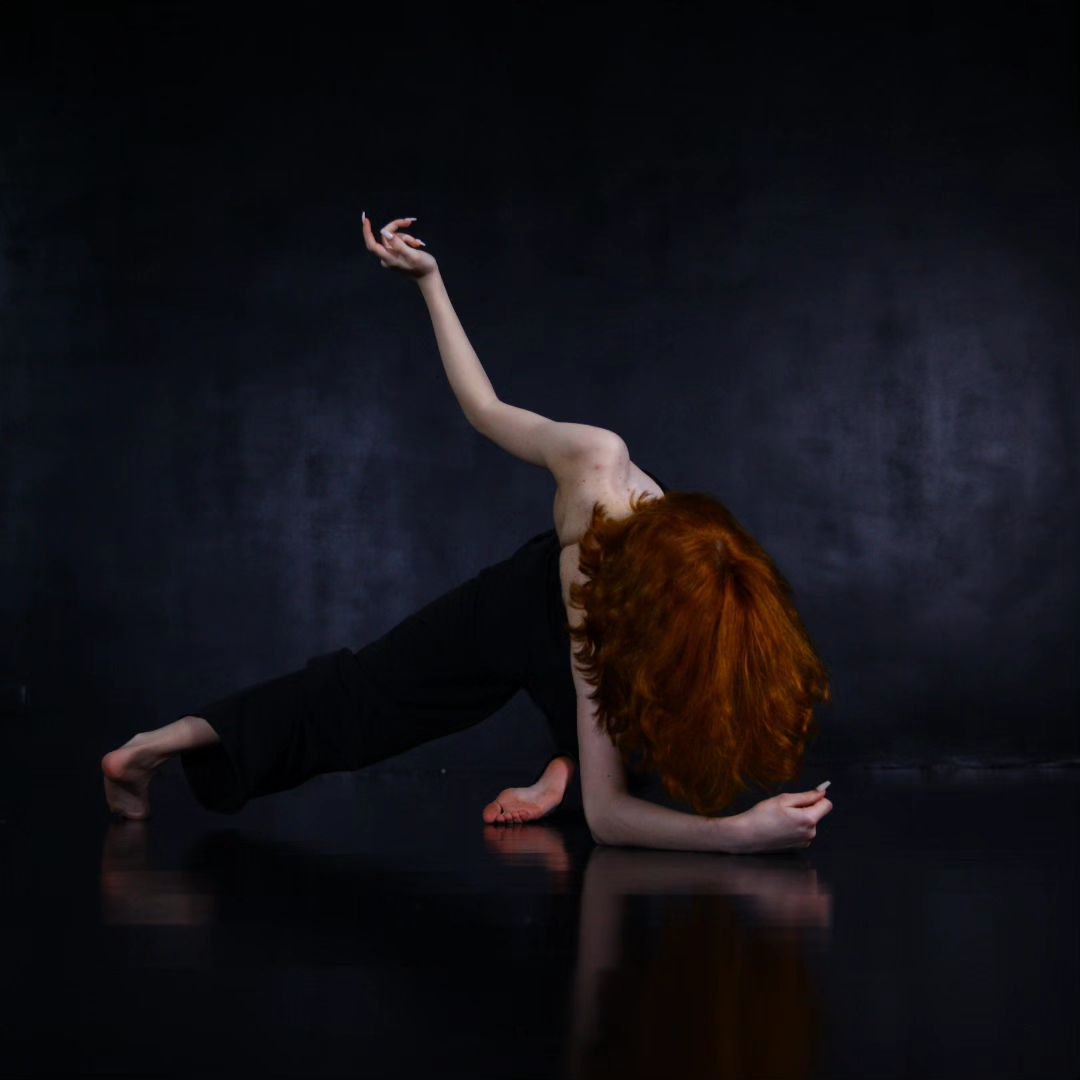
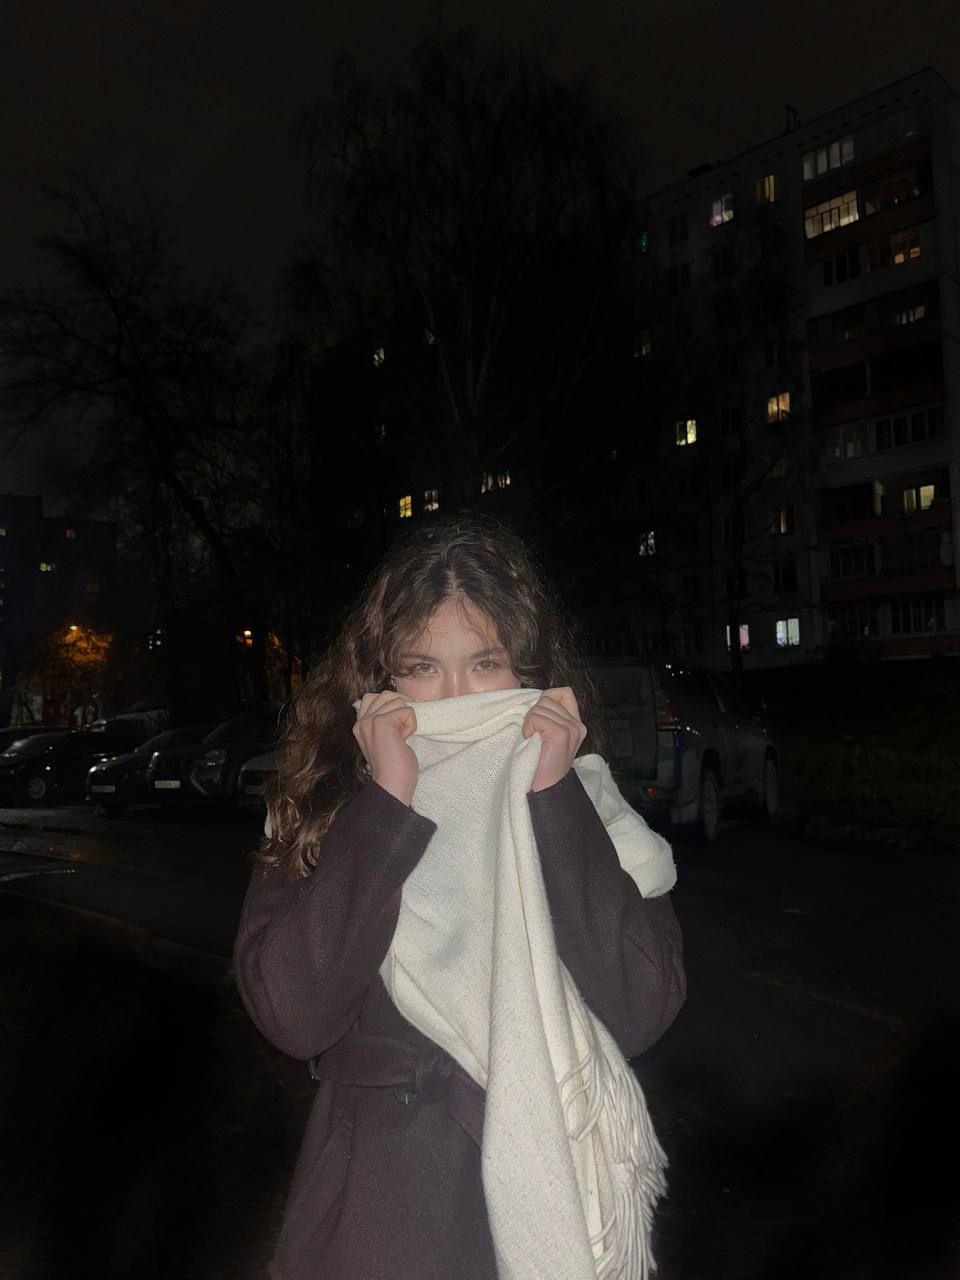
about us page

diff --git a/index.html b/index.html
@@ -19,6 +19,7 @@
       <div class="aboutUs">
         <button class="aboutUsBtn">About Us &#9662;</button>
         <div class="aboutUs-content">
+          <a href="html/about_us.html">About Us</a>
           <a href="our_works.html">Our Works</a>
           <a href="#https://www.photo-pick.com/online/H8vS5PyL.link"
             >Photobook</a
@@ -54,13 +55,13 @@
 
       <div class="offer-card">
         <img
-          src="img/photo_2025-12-17_16-14-50.jpg"
+          src="img/photo_2025-12-18_15-46-21.jpg"
           alt="Promotion"
           class="imagesFirst"
         />
         <h3>Promotion</h3>
         <p>Strategic marketing to expand audience and visibility.</p>
-        <a href="our_works.html" class="joinUsButton">See How</a>
+        <a href="html/about_us.html" class="joinUsButton">Learn More</a>
       </div>
 
       <div class="offer-card">
@@ -71,7 +72,7 @@
         />
         <h3>Skill Development</h3>
         <p>Improve vocals, dance, and stage presence professionally.</p>
-        <a href="audition.html" class="joinUsButton">Develop Skills</a>
+        <a href="audition.html" class="joinUsButton">Learn More</a>
       </div>
 
       <div class="offer-card">
@@ -80,9 +81,9 @@
           alt="International Opportunities"
           class="imagesFirst"
         />
-        <h3>International Opportunities</h3>
-        <p>Global projects and exposure for artists beyond borders.</p>
-        <a href="contacts.html" class="joinUsButton">Go International</a>
+        <h3>Worldwide artists</h3>
+        <p>We welcome talented artists from all around the world.</p>
+        <a href="contacts.html" class="joinUsButton">Learn More</a>
       </div>
     </section>
 
@@ -90,7 +91,7 @@
       <h3>About our Directors</h3>
 
       <div class="profile">
-        <b>Sofia – CEO (PR Manager, SMM Specialist)</b>
+        <b>Sofia Golban – CEO (PR Manager, SMM Specialist)</b>
         <p>
           Promotion of the company and its artists, content management, and PR
           strategies: 2 years in SMM and 4 years in PR, development of marketing
@@ -99,7 +100,7 @@
       </div>
 
       <div class="profile">
-        <b>Sofia – Deputy Director (Casting Manager, Media Buyer)</b>
+        <b>Sofya Nikolaevna – Deputy Director (Casting Manager)</b>
         <p>
           Advertising purchases on various platforms, recruiting talented
           artists, conducting castings, and selecting participants: music school
@@ -110,14 +111,25 @@
     </div>
 
     <footer class="footer">
-      <span
-        >Telegram channel:
-        <a href="https://t.me/gbentertainmentso">@gbentertainmentso</a> | Email:
-        <a href="mailto:gbentertainmentso@gmail.com"
-          >gbentertainmentso@gmail.com</a
-        ></span
-      >
-      <span>Copyright © 2026 GB ENTERTAINMENT</span>
+      <div class="footer-content">
+        <img
+          src="img/fotor-20240206184618.png"
+          class="logo"
+          alt="GB ENTERTAINMENT logo"
+        />
+
+        <div class="footer-text">
+          <span>
+            Telegram channel:
+            <a href="https://t.me/gbentertainmentso">@gbentertainmentso</a> |
+            Email:
+            <a href="mailto:gbentertainmentso@gmail.com">
+              gbentertainmentso@gmail.com
+            </a>
+          </span>
+          <span>Copyright © 2026 GB ENTERTAINMENT</span>
+        </div>
+      </div>
     </footer>
   </body>
 </html>

diff --git a/html/about_us.html b/html/about_us.html
@@ -1,0 +1,83 @@
+<!DOCTYPE html>
+<html lang="en">
+  <head>
+    <meta charset="UTF-8" />
+    <meta name="viewport" content="width=device-width, initial-scale=1.0" />
+    <link rel="stylesheet" href="../css/navbar.css" />
+    <link rel="stylesheet" href="../css/style.css" />
+    <link rel="stylesheet" href="../css/footer.css" />
+    <link
+      href="https://fonts.googleapis.com/css2?family=Playfair+Display:wght@500;700&family=Inter:wght@300;400;500&display=swap"
+      rel="stylesheet"
+    />
+    <title>About us</title>
+  </head>
+  <body>
+    <nav class="navbar">
+      <a href="../index.html">Home Page</a>
+      <a href="our_artists.html">Our Artists</a>
+      <div class="aboutUs">
+        <button class="aboutUsBtn">About Us &#9662;</button>
+        <div class="aboutUs-content">
+          <a href="html/about_us.html">About Us</a>
+          <a href="our_works.html">Our Works</a>
+          <a href="#https://www.photo-pick.com/online/H8vS5PyL.link"
+            >Photobook</a
+          >
+        </div>
+      </div>
+      <a href="audition.html">Audition Page</a>
+      <a href="contacts.html">Contacts</a>
+    </nav>
+    <section class="about">
+      <div class="directors">
+        <h3>About GB ENTERTAINMENT</h3>
+
+        <p class="profile">
+          GB ENTERTAINMENT is an international online entertainment company and
+          talent agency, creating and developing artists across multiple
+          creative fields.
+        </p>
+
+        <p class="profile">
+          Founded in October 2022 by Golban Sofia, the company started as a
+          small creative project and evolved into a multi-format platform
+          supporting vocalists, dancers, models, and digital creators worldwide.
+        </p>
+
+        <p class="profile">
+          We produce original music, covers, dance performances, and
+          entertainment content, while helping artists grow, gain exposure, and
+          build long-term careers in the industry.
+        </p>
+
+        <p class="profile">
+          GB ENTERTAINMENT is more than a label — it is a launchpad for talent,
+          combining creative development with global online promotion.
+        </p>
+        <p class="about-tagline">Talent has no borders.</p>
+      </div>
+    </section>
+    <footer class="footer">
+      <div class="footer-content">
+        <img
+          src="../img/fotor-20240206184618.png"
+          class="logo"
+          alt="GB ENTERTAINMENT logo"
+        />
+
+        <div class="footer-text">
+          <span>
+            Telegram channel:
+            <a href="https://t.me/gbentertainmentso">@gbentertainmentso</a> |
+            Email:
+            <a href="mailto:gbentertainmentso@gmail.com">
+              gbentertainmentso@gmail.com
+            </a>
+          </span>
+          <span>Copyright © 2026 GB ENTERTAINMENT</span>
+        </div>
+      </div>
+    </footer>
+  </body>
+</html>

diff --git a/css/footer.css b/css/footer.css
@@ -1,26 +1,65 @@
-.footer{
-    background-color: #000;
-    color: var(--gray);
-    text-align: center;
-    padding: 25px 10px;
-    font-family: 'Poppins', sans-serif;
-    font-size: 14px;
-    margin-top: 60px;
+.footer {
+  background-color: #000;
+  color: var(--gray);
+  padding: 25px 10px;
+  font-family: 'Poppins', sans-serif;
+  font-size: 14px;
+  margin-top: 60px;
 }
 
-.footer span {
-    display: block;
-    margin: 5px 0;
+.footer-content {
+  display: flex;
+  align-items: center;
+  justify-content: center;
+  gap: 16px;
+  text-align: center;
+}
+
+.logo {
+  width: 3%;
+  height: auto;
+}
+
+.footer-text span {
+  display: block;
+  margin: 5px 0;
 }
 
 .footer a {
-    color:var(--gray);
-    text-decoration: none;
-    font-weight: 500;
-    transition: 0.3s;
+  color: var(--gray);
+  text-decoration: none;
+  font-weight: 500;
+  transition: 0.3s;
 }
 
 .footer a:hover {
-    color: var(--gold);
-    text-decoration: underline;
+  color: var(--gold);
+  text-decoration: underline;
 }
+
+/*--media queries*/
+
+@media screen and (min-width: 1023px) and (max-width: 1024px) {
+    .logo {
+        width:4%;
+    }
+}
+
+@media screen and (min-width: 601px) and (max-width: 1022px)
+{
+    .logo {
+        width: 6%;
+    }
+}
+
+@media screen and (max-width: 600px) {
+  .footer-content {
+    flex-direction: column;
+    gap: 10px;
+  }
+
+  .logo {
+    width: 10%;
+  }
+}
+

diff --git a/css/style.css b/css/style.css
@@ -119,7 +119,7 @@ h3 {
 }
 
 .directors .profile {
-  margin-bottom: 40px;
+  margin-bottom: 20px;
 }
 
 .directors .profile:hover {
@@ -139,6 +139,22 @@ h3 {
   color: #1a1a1a;
   line-height: 1.6;
 }
+
+/*-- ABOUT US PAGE --*/
+
+.about {
+  background-color: var(--white);
+  padding: 0;
+  margin: 0;
+}
+
+.about-tagline {
+  margin-top: 32px;
+  font-weight: 600;
+  color: var(--gold);
+  letter-spacing: 0.04em;
+}
+
 
 /*-- FOR 1024 --*/
 
